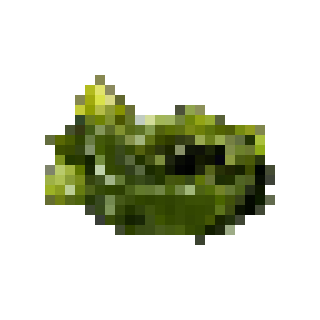
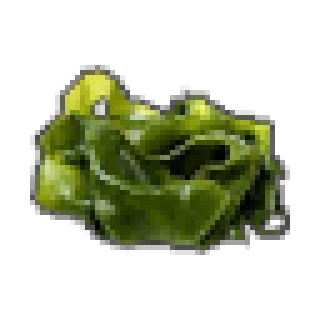
Update picutres and positions of aliments

Changed region(s): [[0.0938, 0.1875, 0.9062, 0.8125]]

diff --git a/contrib/digimiam/inventory/src/store/sokobanStore.js b/contrib/digimiam/inventory/src/store/sokobanStore.js
@@ -110,35 +110,27 @@ const floor = {
   texture: require('@/assets/img/floor.png'),
 }
 
-const chamber0 = {
-  type: 'chamber',
-  id: 0,
-  texture: require('@/assets/img/chamber.png'),
-  successTexture: require('@/assets/img/chamber-1.gif'),
-  foodTexture: require('@/assets/img/cinnamon.png'),
-}
-
 const chamber1 = {
   type: 'chamber',
   id: 1,
   texture: require('@/assets/img/chamber.png'),
-  successTexture: require('@/assets/img/chamber-2.gif'),
-  foodTexture: require('@/assets/img/coffee.png'),
+  successTexture: require('@/assets/img/chamber-1.gif'),
+  foodTexture: require('@/assets/img/potatoe.png'),
 }
 
 const chamber2 = {
   type: 'chamber',
   id: 2,
   texture: require('@/assets/img/chamber.png'),
-  successTexture: require('@/assets/img/chamber-3.gif'),
-  foodTexture: require('@/assets/img/mint.png'),
+  successTexture: require('@/assets/img/chamber-2.gif'),
+  foodTexture: require('@/assets/img/cinnamon.png'),
 }
 
 const chamber3 = {
   type: 'chamber',
   id: 3,
   texture: require('@/assets/img/chamber.png'),
-  successTexture: require('@/assets/img/chamber-4.gif'),
+  successTexture: require('@/assets/img/chamber-3.gif'),
   foodTexture: require('@/assets/img/lemon.png'),
 }
 
@@ -146,41 +138,49 @@ const chamber4 = {
   type: 'chamber',
   id: 4,
   texture: require('@/assets/img/chamber.png'),
-  successTexture: require('@/assets/img/chamber-5.gif'),
-  foodTexture: require('@/assets/img/potatoe.png'),
+  successTexture: require('@/assets/img/chamber-4.gif'),
+  foodTexture: require('@/assets/img/mint.png'),
 }
 
 const chamber5 = {
   type: 'chamber',
   id: 5,
   texture: require('@/assets/img/chamber.png'),
-  successTexture: require('@/assets/img/chamber-6.gif'),
-  foodTexture: require('@/assets/img/beer.png'),
+  successTexture: require('@/assets/img/chamber-5.gif'),
+  foodTexture: require('@/assets/img/insect.png'),
 }
 
 const chamber6 = {
   type: 'chamber',
   id: 6,
   texture: require('@/assets/img/chamber.png'),
-  successTexture: require('@/assets/img/chamber-7.gif'),
-  foodTexture: require('@/assets/img/insect.png'),
+  successTexture: require('@/assets/img/chamber-6.gif'),
+  foodTexture: require('@/assets/img/algua.png'),
 }
 
 const chamber7 = {
   type: 'chamber',
   id: 7,
   texture: require('@/assets/img/chamber.png'),
+  successTexture: require('@/assets/img/chamber-7.gif'),
+  foodTexture: require('@/assets/img/coffee.png'),
+}
+
+const chamber8 = {
+  type: 'chamber',
+  id: 8,
+  texture: require('@/assets/img/chamber.png'),
   successTexture: require('@/assets/img/chamber-8.gif'),
-  foodTexture: require('@/assets/img/algua.png'),
+  foodTexture: require('@/assets/img/beer.png'),
 }
 
 const INITIAL_GRID_TUTORIAL_1 = [
   [wall,              wall,               cornerTopLeft,      wallTop,      wallTop,            wallTop,      cornerTopRight],
   [wall,              wall,               wallLeft,           floor,        floor,              floor,        gateRight],
   [cornerTopLeft,     wallTop,            angleTopLeft,       floor,        column,             floor,        wallRight],
-  [wallLeft,          chamber1,           floor,              floor,        floor,              floor,        wallRight],
+  [wallLeft,          chamber3,           floor,              floor,        floor,              floor,        wallRight],
   [cornerBottomLeft,  angleBottomLeft,    floor,              floor,        angleBottomRight,   wallBottom,   cornerBottomRight],
-  [wall,              cornerBottomLeft,   angleBottomLeft,    chamber0,     wallRight,          wall,         wall],
+  [wall,              cornerBottomLeft,   angleBottomLeft,    chamber5,     wallRight,          wall,         wall],
   [wall,              wall,               cornerBottomLeft,   wallBottom,   cornerBottomRight,  wall,         wall],
 ]
 
@@ -199,18 +199,18 @@ const INITIAL_GRID_TUTORIAL_1_LOWER_PASSAGE = [
   [wall,              wall,               cornerTopLeft,      wallTop,      wallTop,            wallTop,      cornerTopRight],
   [wall,              wall,               wallLeft,           floor,        floor,              floor,        wallRight],
   [cornerTopLeft,     wallTop,            angleTopLeft,       floor,        column,             floor,        wallRight],
-  [wallLeft,          chamber1,           floor,              floor,        floor,              floor,        gateRight],
+  [wallLeft,          chamber3,           floor,              floor,        floor,              floor,        gateRight],
   [cornerBottomLeft,  angleBottomLeft,    floor,              floor,        angleBottomRight,   wallBottom,   cornerBottomRight],
-  [wall,              cornerBottomLeft,   angleBottomLeft,    chamber0,     wallRight,          wall,         wall],
+  [wall,              cornerBottomLeft,   angleBottomLeft,    chamber5,     wallRight,          wall,         wall],
   [wall,              wall,               cornerBottomLeft,   wallBottom,   cornerBottomRight,  wall,         wall],
 ]
 
 const INITIAL_GRID_TUTORIAL_2 = [
   [cornerTopLeft,     wallTop,      wallTop,      gateTop,      wallTop,      wallTop,      cornerTopRight],
   [gateLeft,          floor,        floor,        floor,        floor,        floor,        wallRight],
-  [wallLeft,          floor,        floor,        column,       chamber4,     floor,        wallRight],
-  [wallLeft,          floor,        floor,        chamber3,     floor,        floor,        wallRight],
-  [wallLeft,          floor,        chamber2,     column,       floor,        floor,        wallRight],
+  [wallLeft,          floor,        floor,        column,       chamber6,     floor,        wallRight],
+  [wallLeft,          floor,        floor,        chamber4,     floor,        floor,        wallRight],
+  [wallLeft,          floor,        chamber1,     column,       floor,        floor,        wallRight],
   [wallLeft,          floor,        floor,        floor,        floor,        floor,        wallRight],
   [cornerBottomLeft,  wallBottom,   wallBottom,   wallBottom,   wallBottom,   wallBottom,   cornerBottomRight],
 ]
@@ -232,9 +232,9 @@ const INITIAL_BLOCKS_TUTORIAL_2 = [
 
 const INITIAL_GRID_SOKOGEN_4_ROTATE_180 = [
   [wall,              cornerTopLeft,      wallTop,      wallTop,      wallTop,      cornerTopRight,     wall],
-  [cornerTopLeft,     angleTopLeft,       floor,        chamber7,     floor,        angleTopRight,      cornerTopRight],
-  [wallLeft,          floor,              floor,        chamber6,     floor,        floor,              wallRight],
-  [wallLeft,          floor,              floor,        chamber5,     floor,        floor,              wallRight],
+  [cornerTopLeft,     angleTopLeft,       floor,        chamber8,     floor,        angleTopRight,      cornerTopRight],
+  [wallLeft,          floor,              floor,        chamber2,     floor,        floor,              wallRight],
+  [wallLeft,          floor,              floor,        chamber7,     floor,        floor,              wallRight],
   [wallLeft,          floor,              floor,        column,       floor,        floor,              wallRight],
   [cornerBottomLeft,  angleBottomLeft,    floor,        floor,        floor,        angleBottomRight,   cornerBottomRight],
   [wall,              cornerBottomLeft,   wallBottom,   gateBottom,   wallBottom,   cornerBottomRight,  wall],
@@ -259,7 +259,7 @@ const INITIAL_GRID_SOKOGEN_4_ROTATE_270 = [
   [wall,              cornerTopLeft,    wallTop,      gateTop,      wallTop,      cornerTopRight,     wall],
   [cornerTopLeft,     angleTopLeft,     floor,        floor,        floor,        angleTopRight,      cornerTopRight],
   [wallLeft,          floor,            floor,        floor,        floor,        floor,              wallRight],
-  [gateLeft,          floor,            column,       chamber2,     chamber3,     chamber4,           wallRight],
+  [gateLeft,          floor,            column,       chamber1,     chamber6,     chamber4,           wallRight],
   [wallLeft,          floor,            floor,        floor,        floor,        floor,              wallRight],
   [cornerBottomLeft,  angleBottomLeft,  floor,        floor,        floor,        angleBottomRight,   cornerBottomRight],
   [wall,              cornerBottomLeft, wallBottom,   wallBottom,   wallBottom,   cornerBottomRight,  wall],
@@ -284,9 +284,9 @@ const INITIAL_GRID_SOKOGEN_11 = [
   [cornerTopLeft,     wallTop,    wallTop,      wallTop,      cornerTopRight,   wall,       wall],
   [wallLeft,          floor,      floor,        floor,        wallRight,        wall,       wall],
   [wallLeft,          floor,      column,       floor,        angleTopRight,    wallTop,    cornerTopRight],
-  [wallLeft,          chamber5,   chamber6,     floor,        floor,            floor,      wallRight],
+  [wallLeft,          chamber7,   chamber2,     floor,        floor,            floor,      wallRight],
   [wallLeft,          floor,      floor,        column,       floor,            floor,      wallRight],
-  [wallLeft,          floor,      floor,        floor,        floor,            chamber7,   wallRight],
+  [wallLeft,          floor,      floor,        floor,        floor,            chamber8,   wallRight],
   [cornerBottomLeft,  wallBottom, wallBottom,   gateBottom,   wallBottom,       wallBottom, cornerBottomRight],
 ]
 
@@ -309,7 +309,7 @@ const INITIAL_GRID_SOKOGEN_11_UPSIDE_DOWN = [
   [cornerTopLeft,     wallTop,    wallTop,      wallTop,      gateTop,            wallTop,      cornerTopRight],
   [gateLeft,          floor,      floor,        floor,        floor,              chamber4,     wallRight],
   [wallLeft,          floor,      floor,        column,       floor,              floor,        wallRight],
-  [wallLeft,          chamber2,   chamber3,     floor,        floor,              floor,        wallRight],
+  [wallLeft,          chamber1,   chamber6,     floor,        floor,              floor,        wallRight],
   [wallLeft,          floor,      column,       floor,        angleBottomRight,   wallBottom,   cornerBottomRight],
   [wallLeft,          floor,      floor,        floor,        wallRight,          wall,         wall],
   [cornerBottomLeft,  wallBottom, wallBottom,   wallBottom,   cornerBottomRight,  wall,         wall],
@@ -334,9 +334,9 @@ const INITIAL_GRID_SOKOGEN_28 = [
   [cornerTopLeft,     wallTop,    wallTop,      wallTop,      cornerTopRight,   wall,       wall],
   [wallLeft,          floor,      floor,        floor,        wallRight,        wall,       wall],
   [wallLeft,          floor,      column,       floor,        angleTopRight,    wallTop,    cornerTopRight],
-  [wallLeft,          chamber7,   floor,        floor,        floor,            floor,      wallRight],
-  [wallLeft,          chamber6,   floor,        floor,        column,           floor,      wallRight],
-  [wallLeft,          floor,      floor,        chamber5,     floor,            floor,      wallRight],
+  [wallLeft,          chamber8,   floor,        floor,        floor,            floor,      wallRight],
+  [wallLeft,          chamber2,   floor,        floor,        column,           floor,      wallRight],
+  [wallLeft,          floor,      floor,        chamber7,     floor,            floor,      wallRight],
   [cornerBottomLeft,  wallBottom, wallBottom,   wallBottom,   gateBottom,       wallBottom, cornerBottomRight],
 ]
 
